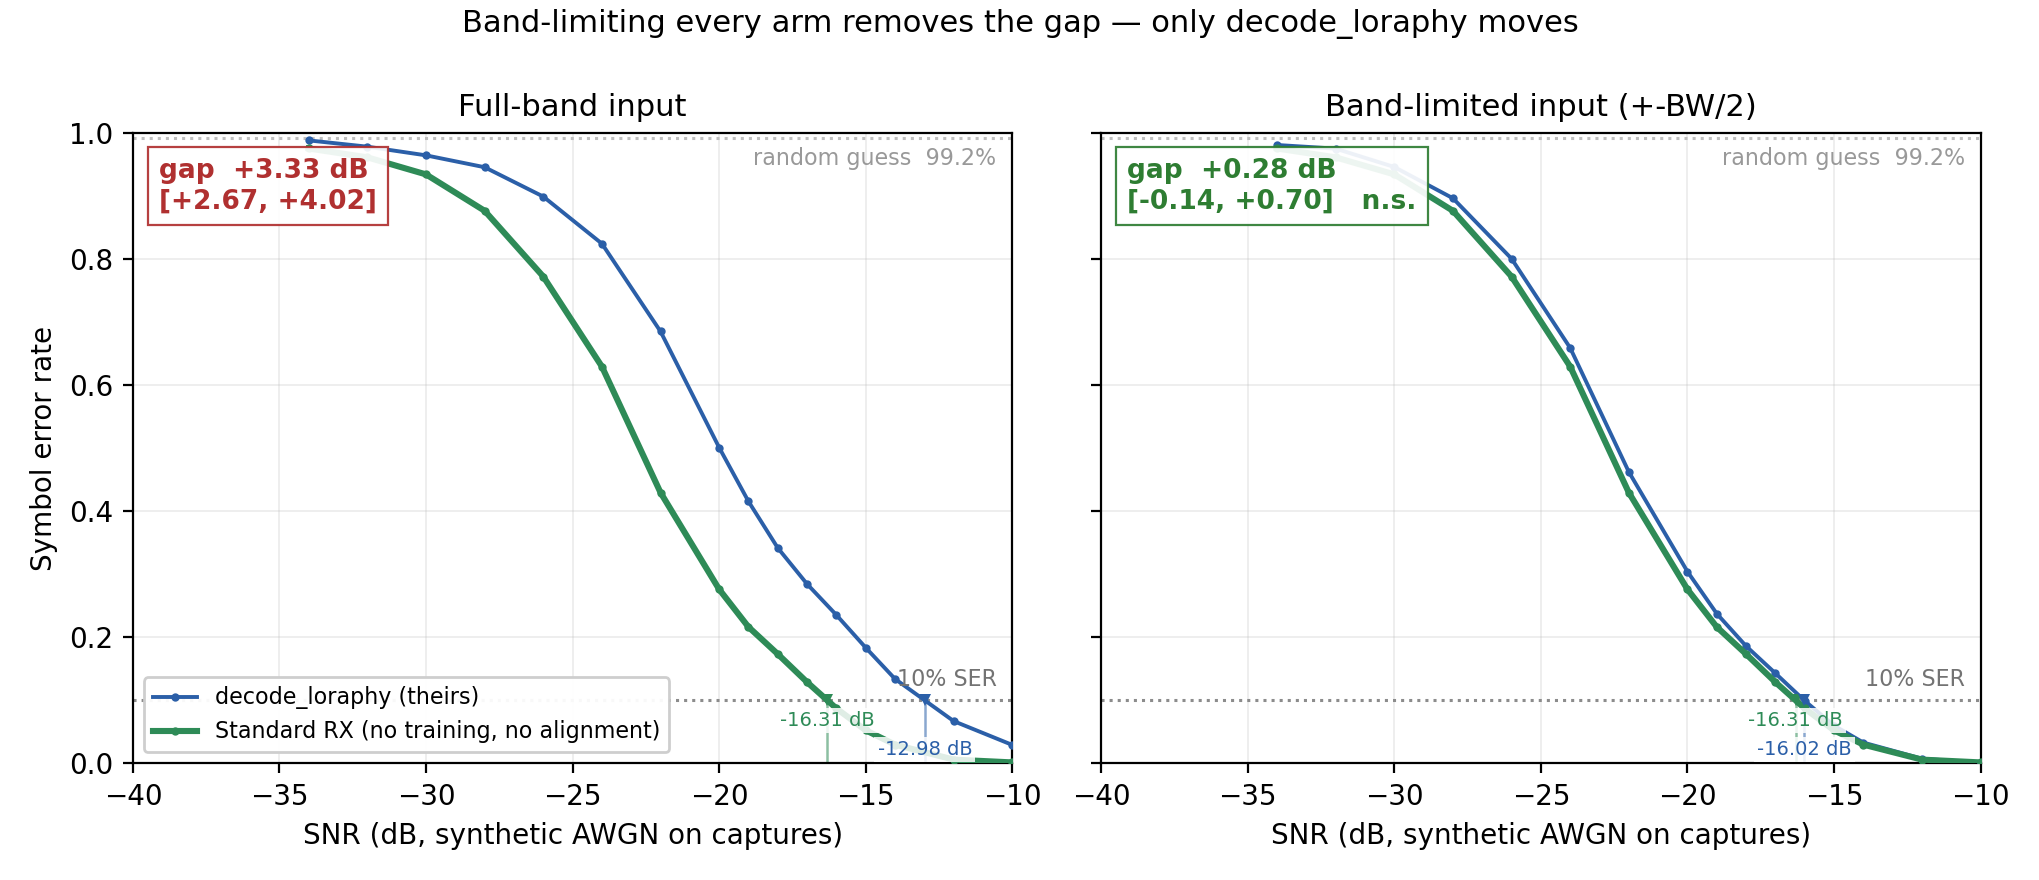
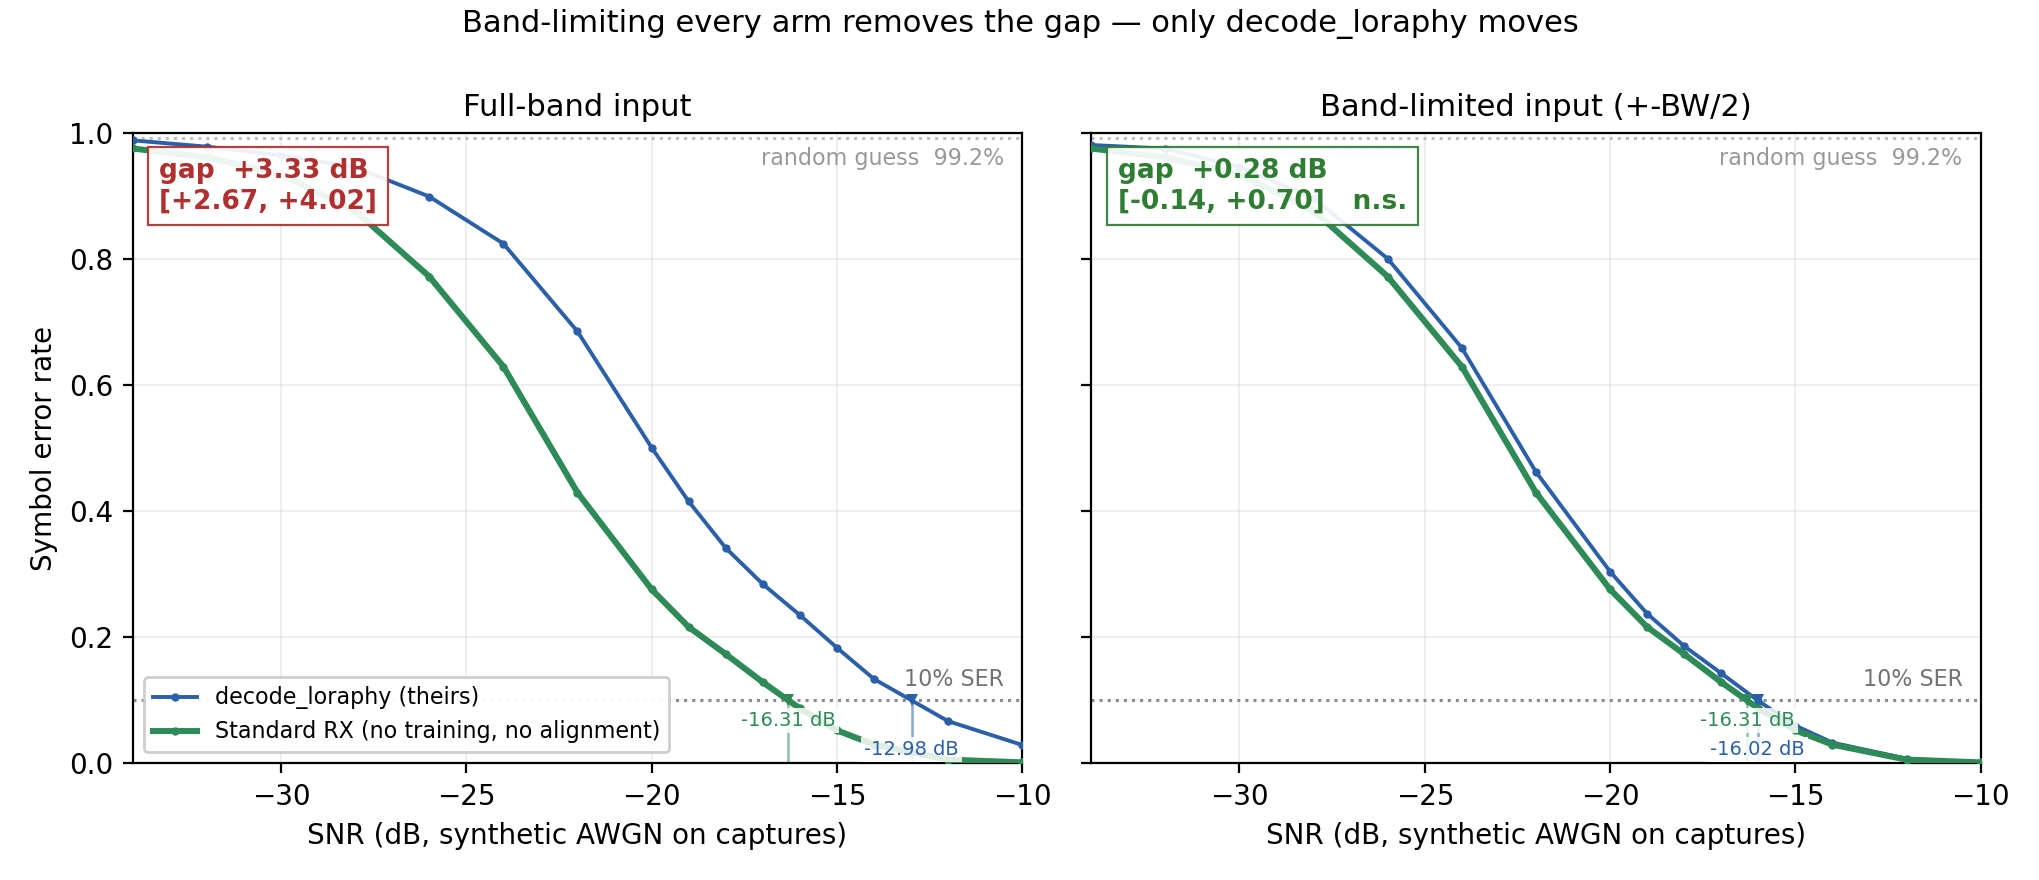
style(verification): End the x axis where the measurement ends
-40 dB was empty padding to match their axis, which reads as a line that
stops rather than data that saturates. The axis now starts at the lowest
measured point (-34 dB) and ticks every 5 dB.

diff --git a/verification/nelora_figs.py b/verification/nelora_figs.py
@@ -7,8 +7,10 @@
   fig3_sf.png         SF7~10 격차
 
 규칙:
-  * **축은 그들 그림을 따른다** — 선형 y(0~1), x −40~−10 dB. 재검증 논문이므로 독자가
-    두 그림을 겹쳐 볼 수 있어야 한다. 한 번 semilogy 로 바꿨다가 되돌렸다: 주장이
+  * **축은 그들 그림을 따른다** — 선형 y(0~1), x 는 −10 dB 까지. 왼쪽 끝은 **측정한
+    곳까지**만 그린다(지금은 −34 dB) — 축만 늘리면 선이 끊긴 것처럼 보인다.
+    재검증 논문이므로 독자가 두 그림을 겹쳐 볼 수 있어야 한다. 한 번 semilogy 로
+    바꿨다가 되돌렸다: 주장이
     10% 교차점 하나라 로그축의 장점(저SER 확대)을 이 보고서는 쓰지 않고, 2페이지
     원고에서 작게 들어갈 때 선형이 축소에 강하다.
   * **읽는 방법만 개선한다.** 그들 그림에 없는 것 네 가지 —
@@ -31,7 +33,7 @@ matplotlib.use('Agg')
 import matplotlib.pyplot as plt
 
 R = os.path.join(os.path.dirname(os.path.abspath(__file__)), 'results')
-XLO, XHI, THR = -40, -10, 0.10
+XHI, THR = -10, 0.10   # x 왼쪽 끝은 측정한 곳까지 (데이터에서 정한다)
 
 # 색 + 선 스타일을 같이 다르게 준다 (흑백 인쇄).
 STY = {
@@ -68,7 +70,7 @@ def crossing(xs, ys, thr=THR):
 
 def plot_arms(ax, ser, keys, short=()):
     """곡선을 그리고 교차점 목록을 돌려준다."""
-    lo, cross = -8, []
+    lo, cross = XHI, []
     for k in keys:
         if k not in ser:
             continue
@@ -84,10 +86,10 @@ def plot_arms(ax, ser, keys, short=()):
     return lo, cross
 
 
-def style(ax, title, xlo=None, n_classes=128, guess=True):
+def style(ax, title, xlo, n_classes=128, guess=True):
     ax.set_ylim(0, 1.0)
-    ax.set_xlim(XLO, XHI)
-    ax.set_xticks(range(XLO, XHI + 1, 5))
+    ax.set_xlim(xlo, XHI)
+    ax.set_xticks([t for t in range(int(np.ceil(xlo/5))*5, XHI + 1, 5)])
     ax.set_yticks([i/5 for i in range(6)])
     ax.axhline(THR, ls=':', lw=1.1, color='0.55', zorder=1)
     ax.text(XHI - .3, THR + .015, '10% SER ', va='bottom', ha='right',
@@ -128,8 +130,8 @@ def fig1():
         short = ('nelora_dnn',)
 
     fig, ax = plt.subplots(figsize=(7.0, 4.6))
-    _, cross = plot_arms(ax, ser, ORDER, short)
-    style(ax, 'SF7, held-out packets — their conditions, same batch')
+    xlo, cross = plot_arms(ax, ser, ORDER, short)
+    style(ax, 'SF7, held-out packets — their conditions, same batch', xlo)
     mark_crossings(ax, cross)
     ax.legend(fontsize=8, loc='upper right', bbox_to_anchor=(.995, .93), framealpha=.95)
     fig.tight_layout(); fig.savefig(os.path.join(R, 'fig1_ser.png'), dpi=200)
@@ -143,11 +145,12 @@ def fig2():
              else 'dnn_sf7_heldout_lpf.json')
     titles = ['Full-band input', 'Band-limited input (+-BW/2)']
     fig, axes = plt.subplots(1, 2, figsize=(10.2, 4.4), sharey=True)
-    cr = []
+    xlo, cr = XHI, []
     for ax, ser in zip(axes, (a, b)):
-        cr.append(plot_arms(ax, ser, ('decode_loraphy', 'standard_rx'))[1])
+        lo, c = plot_arms(ax, ser, ('decode_loraphy', 'standard_rx'))
+        xlo = min(xlo, lo); cr.append(c)
     for ax, t, c in zip(axes, titles, cr):
-        style(ax, t)
+        style(ax, t, xlo)
         mark_crossings(ax, c)
     axes[1].set_ylabel('')
     axes[0].legend(fontsize=8, loc='lower left', framealpha=.95)

diff --git a/NELORA.md b/NELORA.md
@@ -70,7 +70,8 @@
 −12.98 / −14.35 / −16.31 / −17.05 dB 다. 회색 점선(D3, 정렬된 경험적 MF)이 상한이고,
 표준 RX 는 학습도 정렬도 없이 그 0.74 dB 안까지 붙는다.*
 
-*축은 **그들 그림과 같게** 둔다 — 선형 y(0~1), x −40~−10 dB. 재검증이므로 독자가 두 그림을
+*축은 **그들 그림과 같게** 둔다 — 선형 y(0~1), x 는 −10 dB 까지. 왼쪽 끝은 **측정한 곳
+까지**(−34 dB)다 — 축만 늘려 놓으면 선이 끊긴 것처럼 보인다. 재검증이므로 독자가 두 그림을
 겹쳐 볼 수 있어야 한다. 대신 **읽는 방법**을 고쳤다: 색 있는 수직선이 각 팔의 10% 교차점이고
 값을 그대로 적었다(이 보고서의 결론이 그 네 숫자다), 선 스타일을 색과 함께 다르게 주어
 흑백 인쇄에서도 구분되며, 주인공인 표준 RX 만 굵다. 연한 점선 둘은 **10% 임계**와
